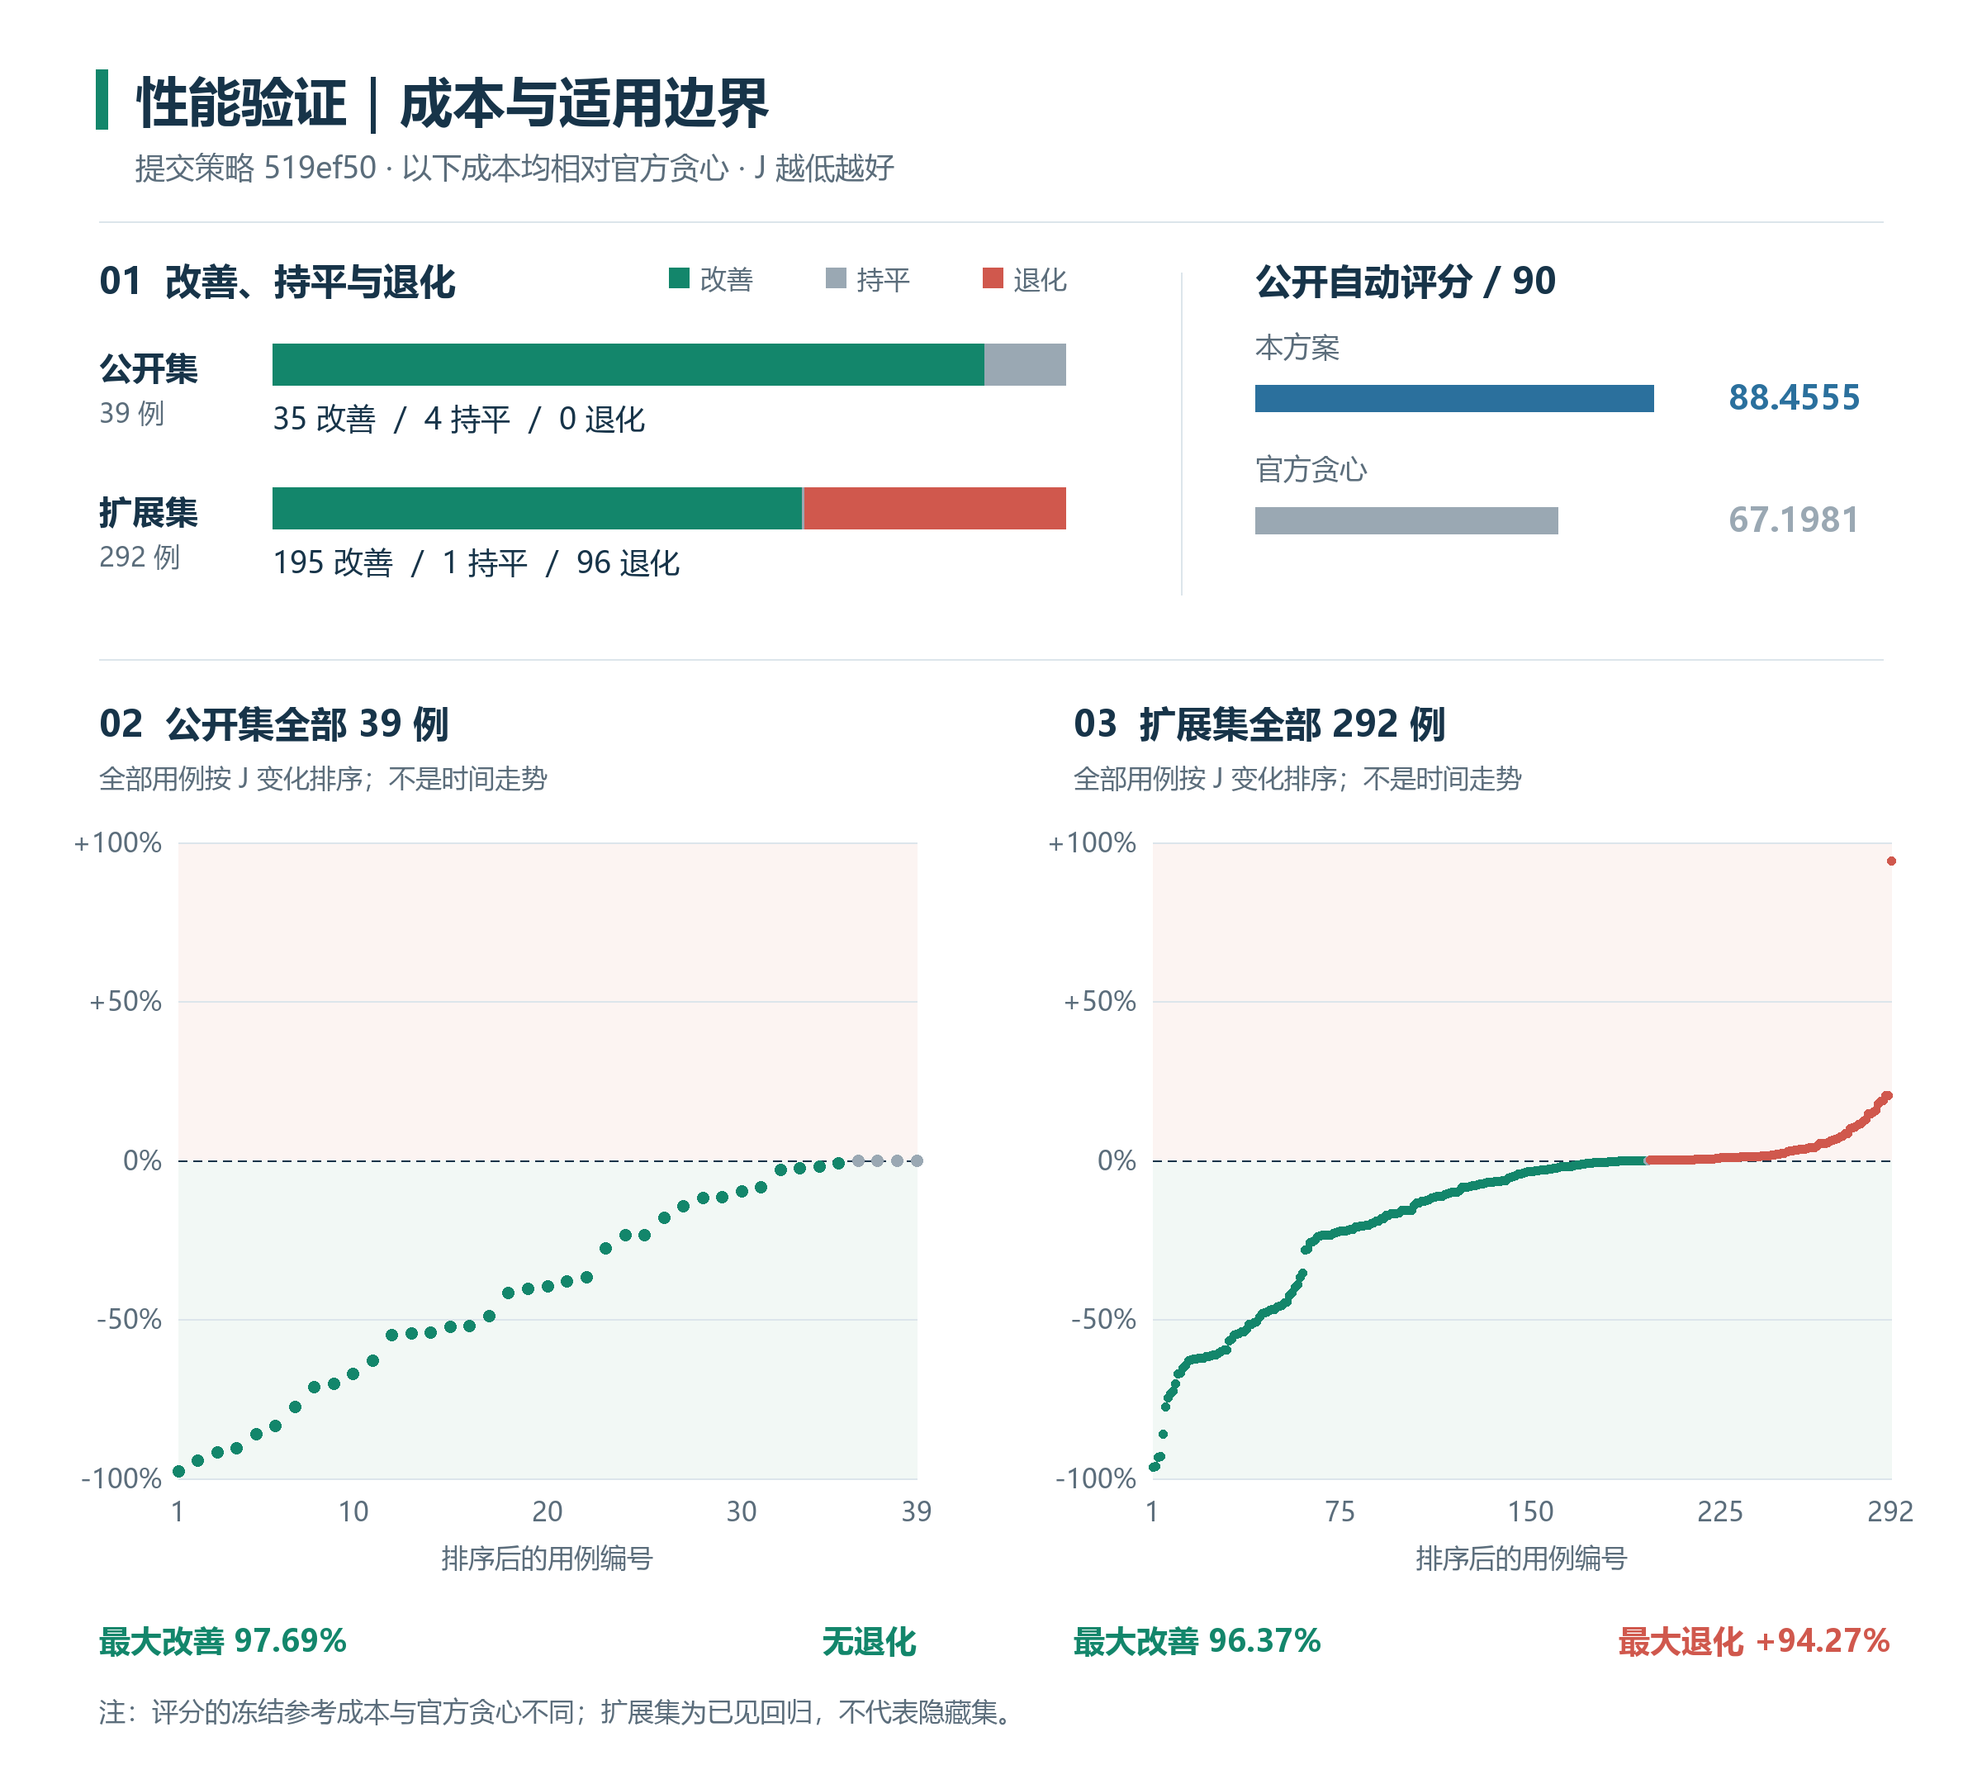
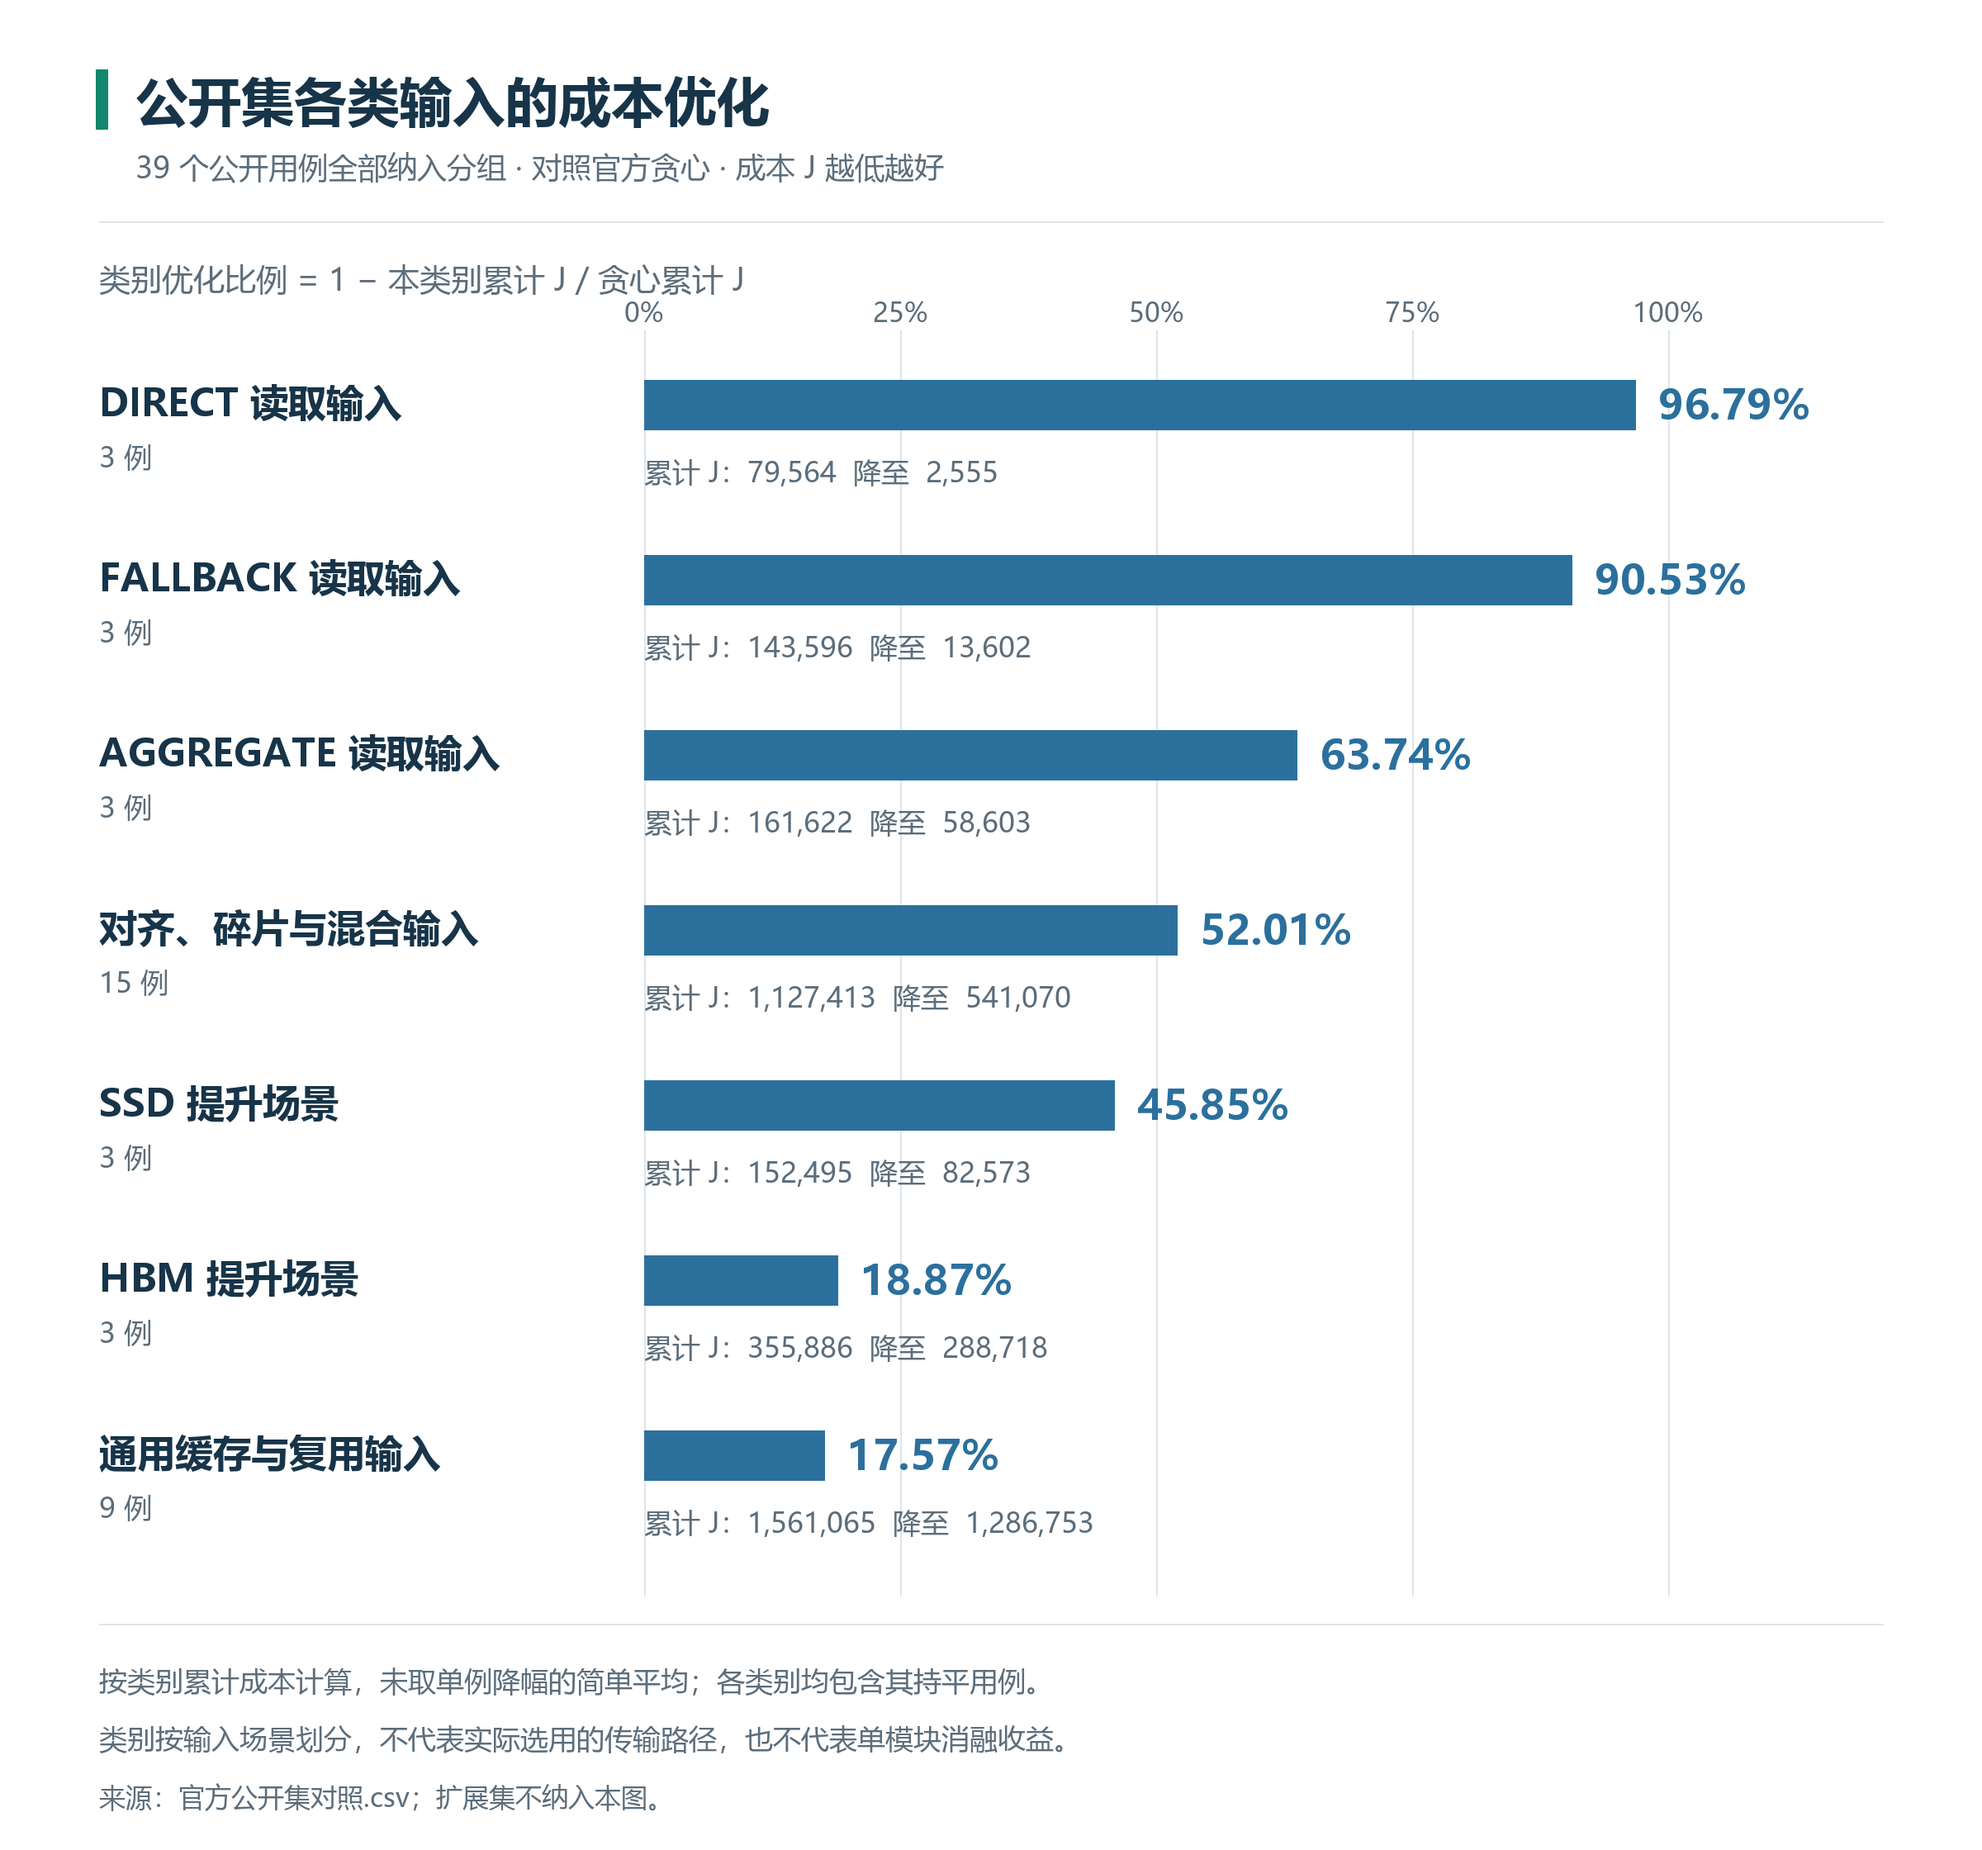
docs: focus performance visuals on public input categories and resource gains

diff --git a/submissions/kaisennhu/06_性能与资源报告/验证报告.md b/submissions/kaisennhu/06_性能与资源报告/验证报告.md
@@ -4,9 +4,9 @@
 
 ## 1. 评分与成本收益
 
-![公开集与扩展集的成本收益和退化分布](images/cost-performance.png)
+![公开集各类输入的累计成本优化比例](images/cost-performance.png)
 
-图1：逐例成本相对官方贪心计算，负值表示改善；公开集与扩展集分开统计。自动评分使用冻结参考成本，与图中的贪心对照不同。图表直接汇总同版本CSV，未引入新测试数据。
+图1：39个公开用例按输入场景分为7类，全部纳入统计，包括持平用例。各类优化比例为 `1 − ΣJ_本方案 / ΣJ_官方贪心`，不是单例降幅的简单平均。类别名称描述输入场景，不代表程序实际选择的传输路径或独立模块贡献；扩展集不纳入本图。
 
 | 项目 | 结果 |
 | --- | --- |
@@ -52,9 +52,9 @@
 
 ## 3. 决策时间与内存
 
-![策略计算时间、进程耗时及内存峰值](images/runtime-memory.png)
+![公开集进程耗时和内存下降指标](images/runtime-memory.png)
 
-图2：时间按公开集各用例正式轮的中位数求和，内存取正式轮最大值。策略回调、进程墙钟、策略堆与进程RSS分别展示；极端碎片探针另计。
+图2：仅展示公开集进程墙钟、策略堆峰值、进程RSS峰值三个下降指标。时间按每例正式轮的中位数求和，内存取全部正式轮最大值。其他指标与适用边界保留在下表和正文，进程耗时下降不等于策略自身计算加速。
 
 环境：Linux、AMD EPYC 9575F、g++ 13.3.0、`-O2`，固定CPU 8。双方使用同一官方计量入口及外层回调计时器；每个公开输入各预热一次，交替执行三轮。没有清理共享缓存。编译耗时14秒量级，精确构建耗时见构建摘要，预热、每轮计时及独立验证耗时保存在资源开销CSV。
 
